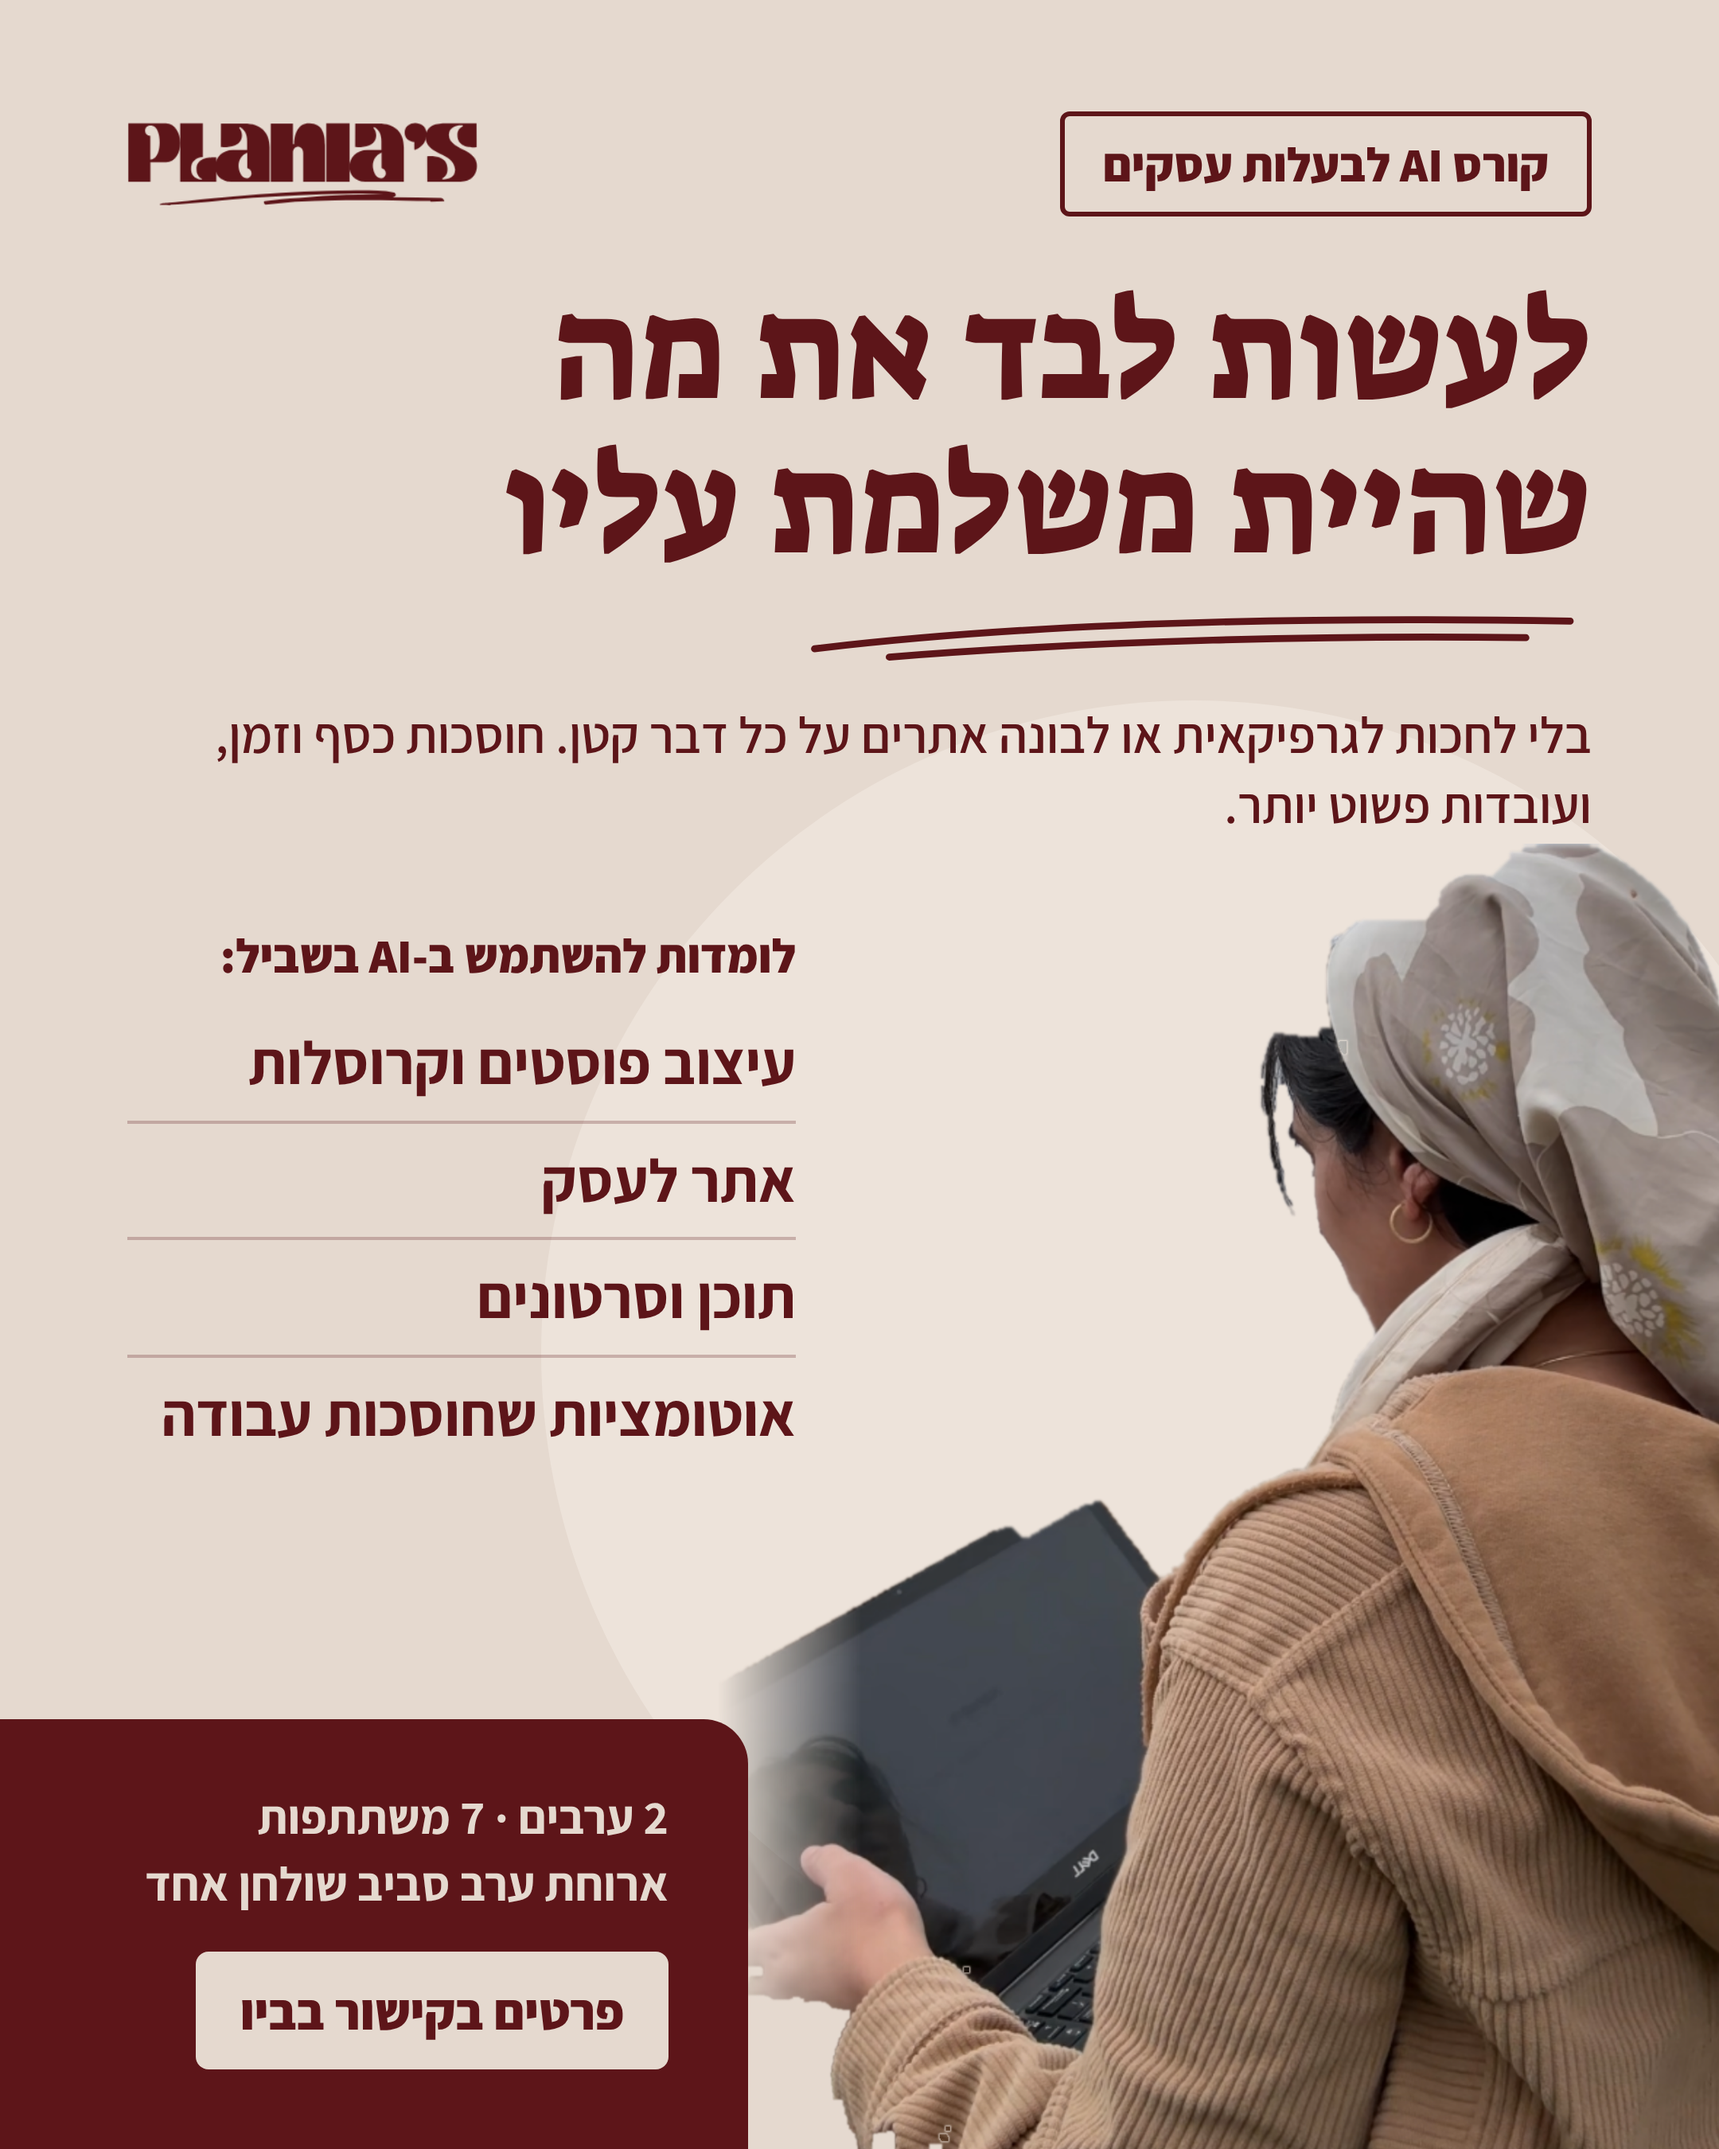
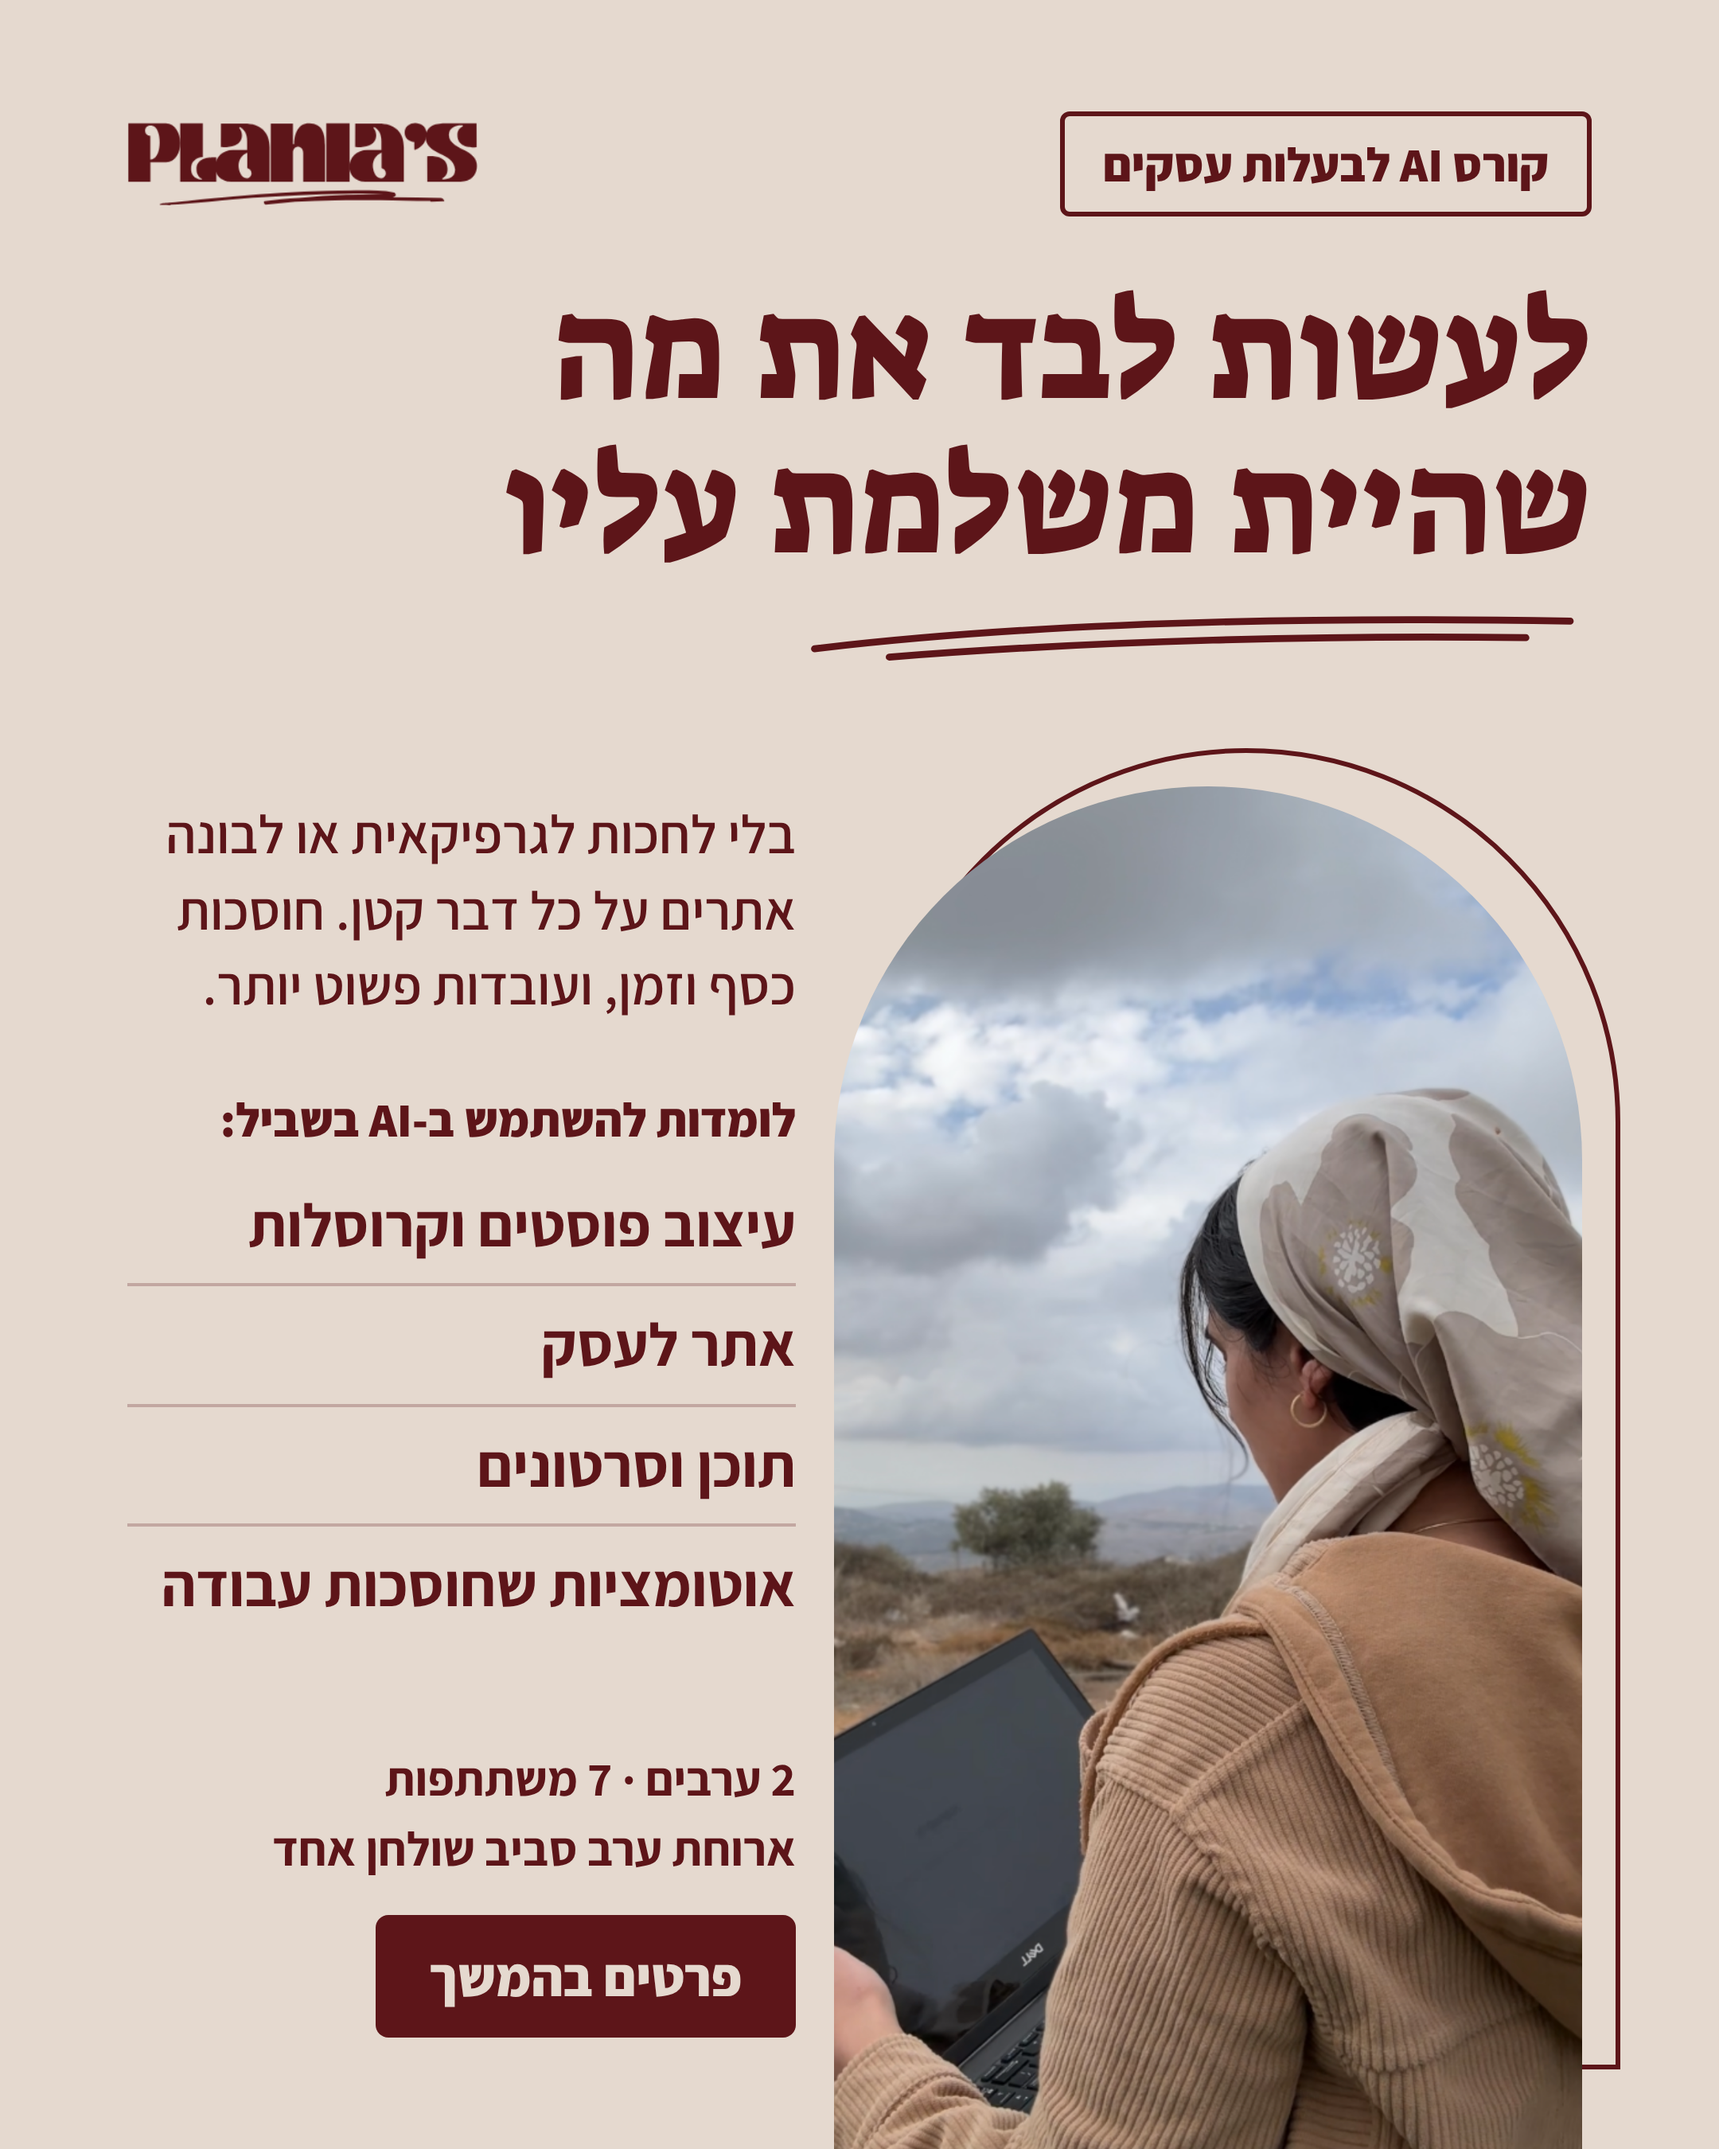
Redo photo flyer: full photo in arch frame, details to follow
Claude-Session: https://claude.ai/code/session_01FAztRn3s498VxUBgDg5pS8

diff --git a/marketing/course-ad/flyer-photo.html b/marketing/course-ad/flyer-photo.html
@@ -8,36 +8,36 @@
 *{box-sizing:border-box;margin:0;padding:0}
 body{font-family:'Assistant',sans-serif}
 #flyer{width:1080px;height:1350px;background:var(--cream);color:var(--wine);position:relative;overflow:hidden}
-.blob{position:absolute;width:820px;height:820px;border-radius:50%;background:#EDE3DA;left:340px;top:440px}
-.photo{position:absolute;bottom:0;right:-30px;height:820px;-webkit-mask-image:linear-gradient(to right,transparent 0,#000 90px);mask-image:linear-gradient(to right,transparent 0,#000 90px)}
 .top{position:absolute;top:70px;right:80px;left:80px}
 .row{display:flex;justify-content:space-between;align-items:center}
 .tag{border:3px solid currentColor;padding:10px 24px;font-weight:800;font-size:30px;border-radius:6px}
 .logo{width:220px}
 h1{font-family:'Suez One',serif;font-weight:400;font-size:90px;line-height:1.08;margin-top:36px}
 .swoosh{display:block;width:500px;height:40px;margin-top:12px}
-.side{position:absolute;left:80px;top:580px;width:420px;text-align:right}
-.lead{font-size:32px;font-weight:600;line-height:1.35;margin-top:22px;max-width:920px}
-.panel{position:absolute;left:0;bottom:0;width:470px;background:var(--wine);color:var(--cream);padding:40px 50px 50px 80px;border-top-right-radius:28px}
-.panel .facts{font-size:30px;font-weight:700;line-height:1.4}
-.panel .cta{display:inline-block;margin-top:22px;background:var(--cream);color:var(--wine);font-weight:800;font-size:32px;padding:16px 28px;border-radius:8px;white-space:nowrap}
-.side .k{font-size:30px;font-weight:800}
-.side ul{list-style:none;margin-top:12px}
-.side li{font-size:38px;font-weight:700;line-height:1.25;padding:12px 0;border-bottom:2px solid rgba(93,21,25,.25)}
-.side li:last-child{border:none}
+.arch-line{position:absolute;right:62px;top:470px;width:470px;height:830px;border:3px solid var(--wine);border-radius:235px 235px 0 0}
+.arch{position:absolute;right:86px;top:494px;width:470px;height:856px;border-radius:235px 235px 0 0;overflow:hidden;background:url(hadarel-photo.png) 80% 78%/auto 116% no-repeat}
+.side{position:absolute;left:80px;top:500px;width:420px}
+.lead{font-size:34px;font-weight:600;line-height:1.4}
+.k{display:block;font-size:30px;font-weight:800;margin-top:40px}
+ul{list-style:none;margin-top:10px}
+li{font-size:38px;font-weight:700;line-height:1.25;padding:13px 0;border-bottom:2px solid rgba(93,21,25,.25)}
+li:last-child{border:none}
+.foot{position:absolute;left:80px;bottom:70px;width:420px}
+.facts{font-size:30px;font-weight:700;line-height:1.45}
+.soon{display:inline-block;margin-top:20px;background:var(--wine);color:var(--cream);font-weight:800;font-size:34px;padding:16px 34px;border-radius:8px}
 </style>
 </head>
 <body>
 <section id="flyer">
-  <div class="blob"></div>
-  <img class="photo" src="hadarel-cutout.png" alt="">
+  <div class="arch-line"></div>
+  <div class="arch" role="img" aria-label="הדראל עם מחשב נייד בטבע"></div>
   <div class="top">
     <div class="row"><span class="tag">קורס AI לבעלות עסקים</span><img class="logo" src="logo.png" alt="Plania's"></div>
     <h1>לעשות לבד את מה<br>שהיית משלמת עליו</h1>
     <svg class="swoosh" viewBox="0 0 560 46"><path d="M6 34 C140 18 320 10 552 14 M60 40 C210 28 380 24 520 26" fill="none" stroke="currentColor" stroke-width="5" stroke-linecap="round"/></svg>
-    <p class="lead">בלי לחכות לגרפיקאית או לבונה אתרים על כל דבר קטן. חוסכות כסף וזמן, ועובדות פשוט יותר.</p>
   </div>
   <div class="side">
+    <p class="lead">בלי לחכות לגרפיקאית או לבונה אתרים על כל דבר קטן. חוסכות כסף וזמן, ועובדות פשוט יותר.</p>
     <span class="k">לומדות להשתמש ב-AI בשביל:</span>
     <ul>
       <li>עיצוב פוסטים וקרוסלות</li>
@@ -46,9 +46,9 @@ h1{font-family:'Suez One',serif;font-weight:400;font-size:90px;line-height:1.08;
       <li>אוטומציות שחוסכות עבודה</li>
     </ul>
   </div>
-  <div class="panel">
+  <div class="foot">
     <div class="facts">2 ערבים · 7 משתתפות<br>ארוחת ערב סביב שולחן אחד</div>
-    <span class="cta">פרטים בקישור בביו</span>
+    <span class="soon">פרטים בהמשך</span>
   </div>
 </section>
 </body>
